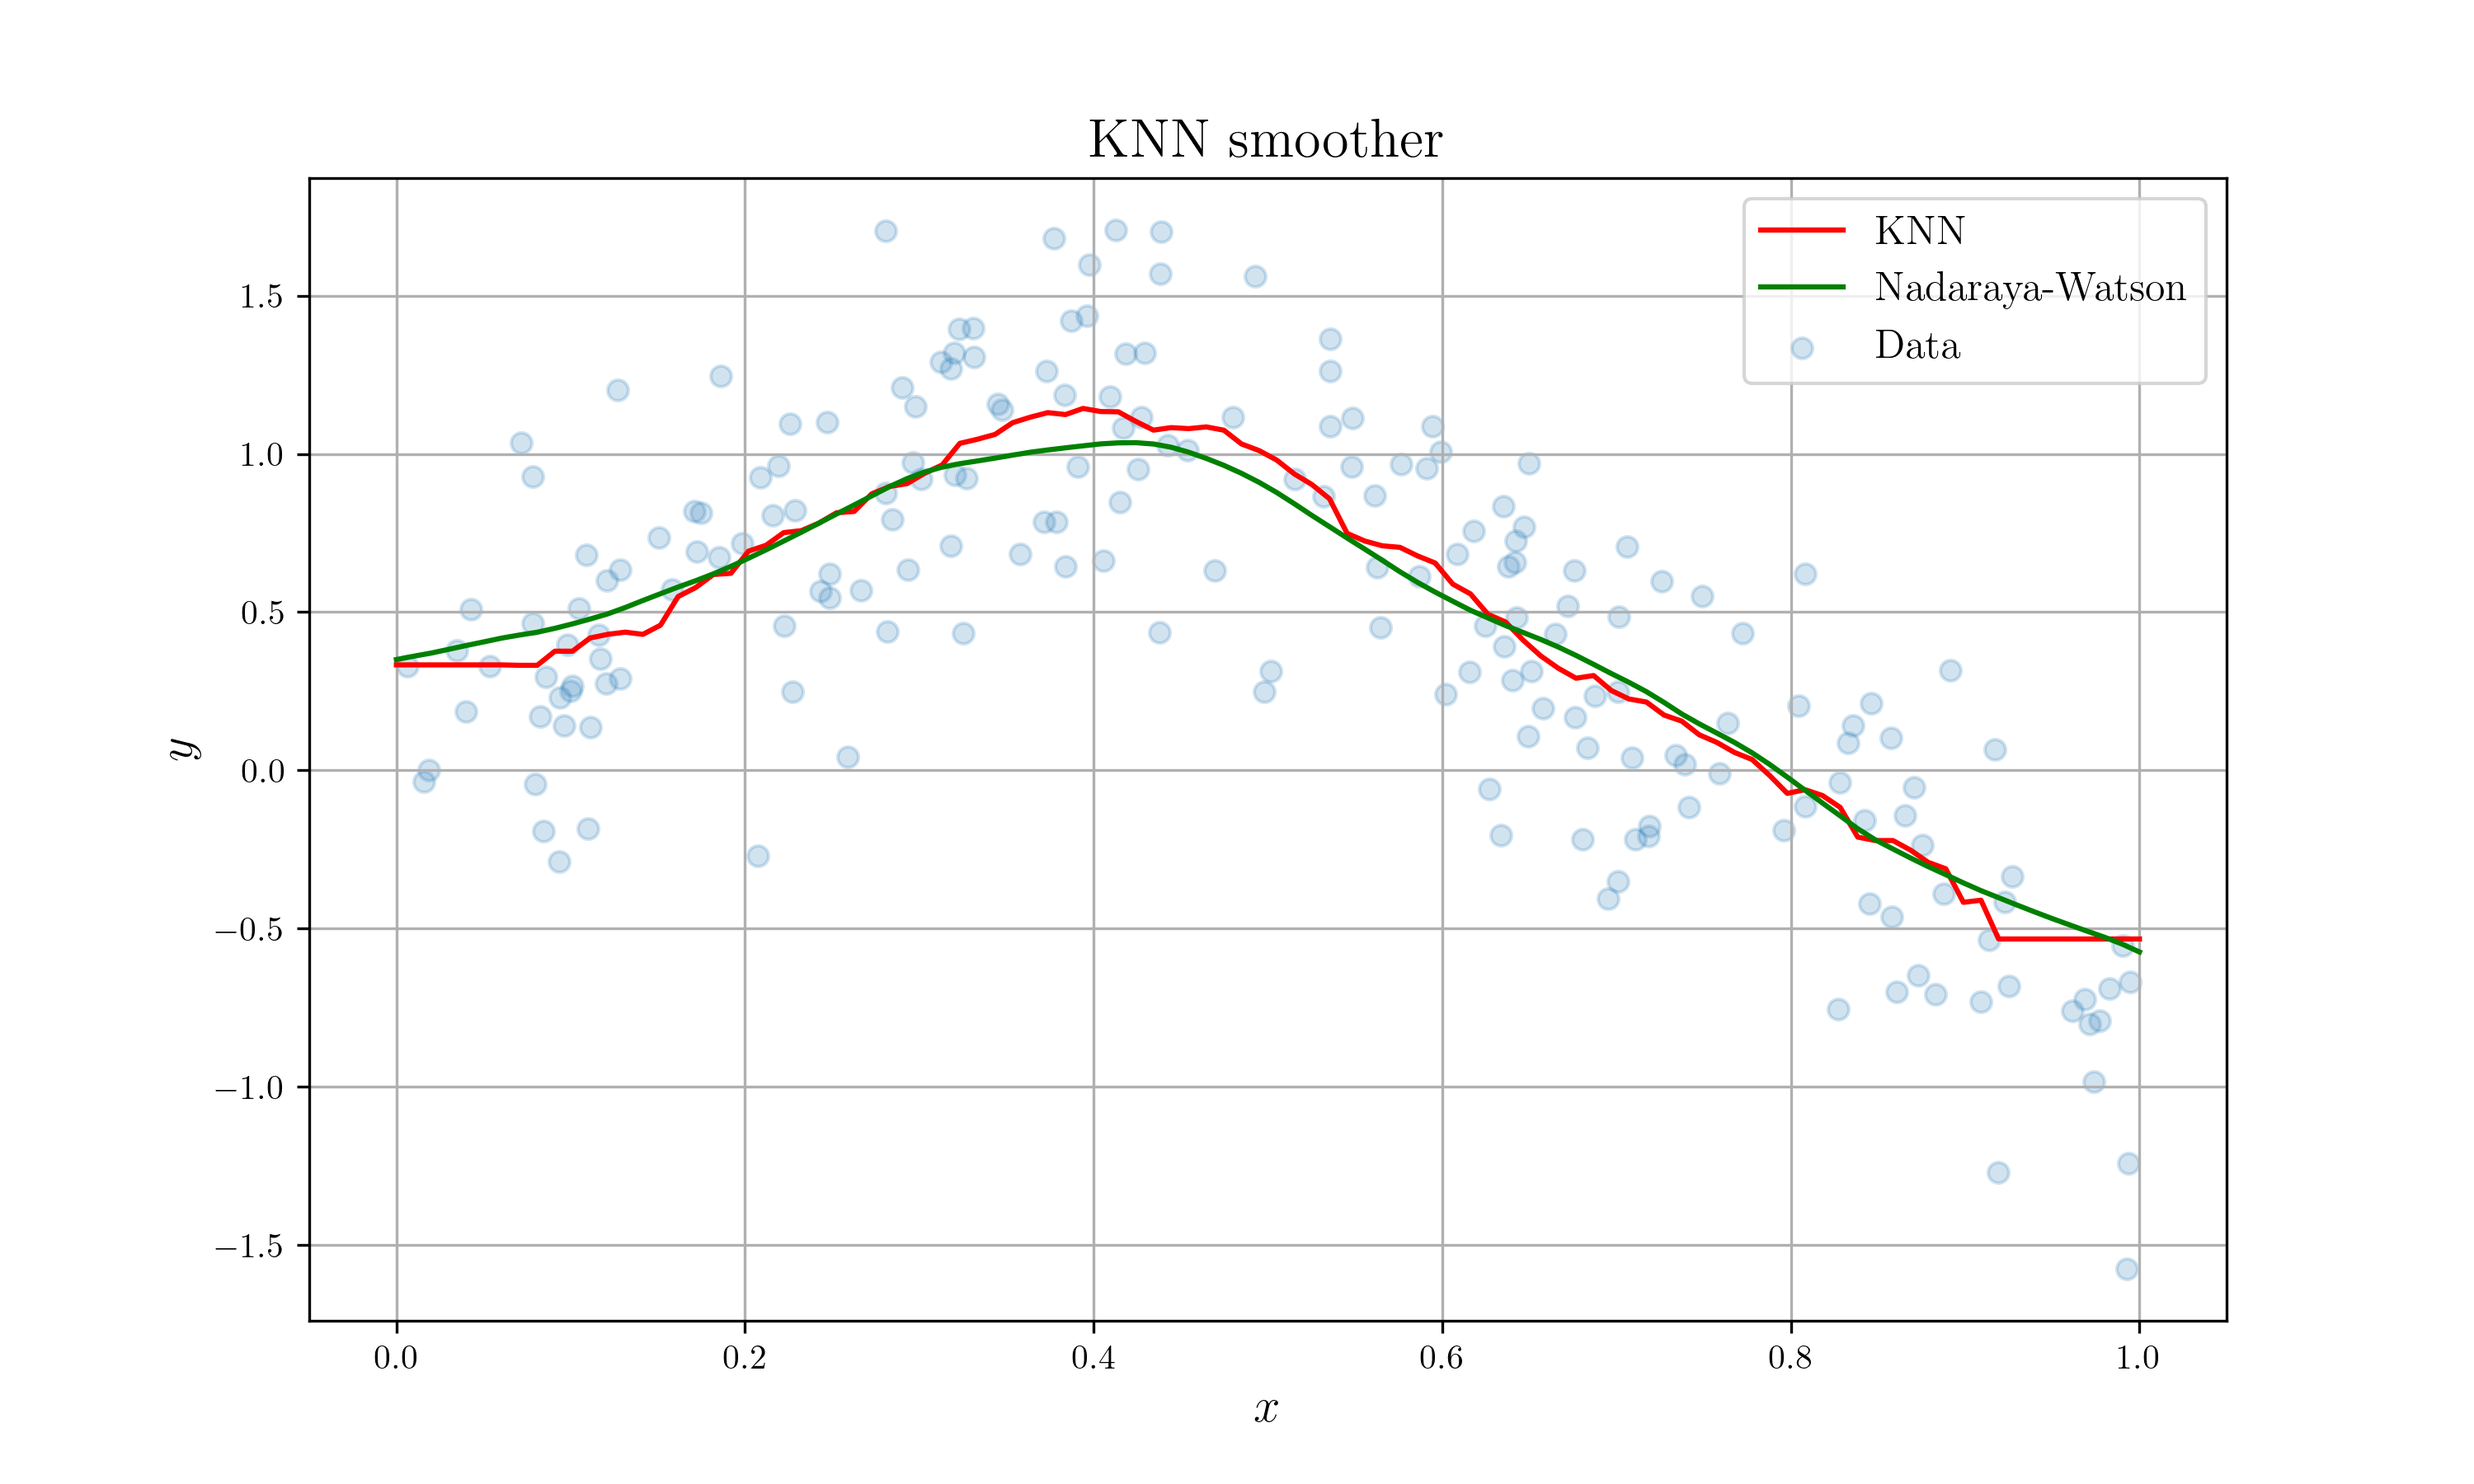
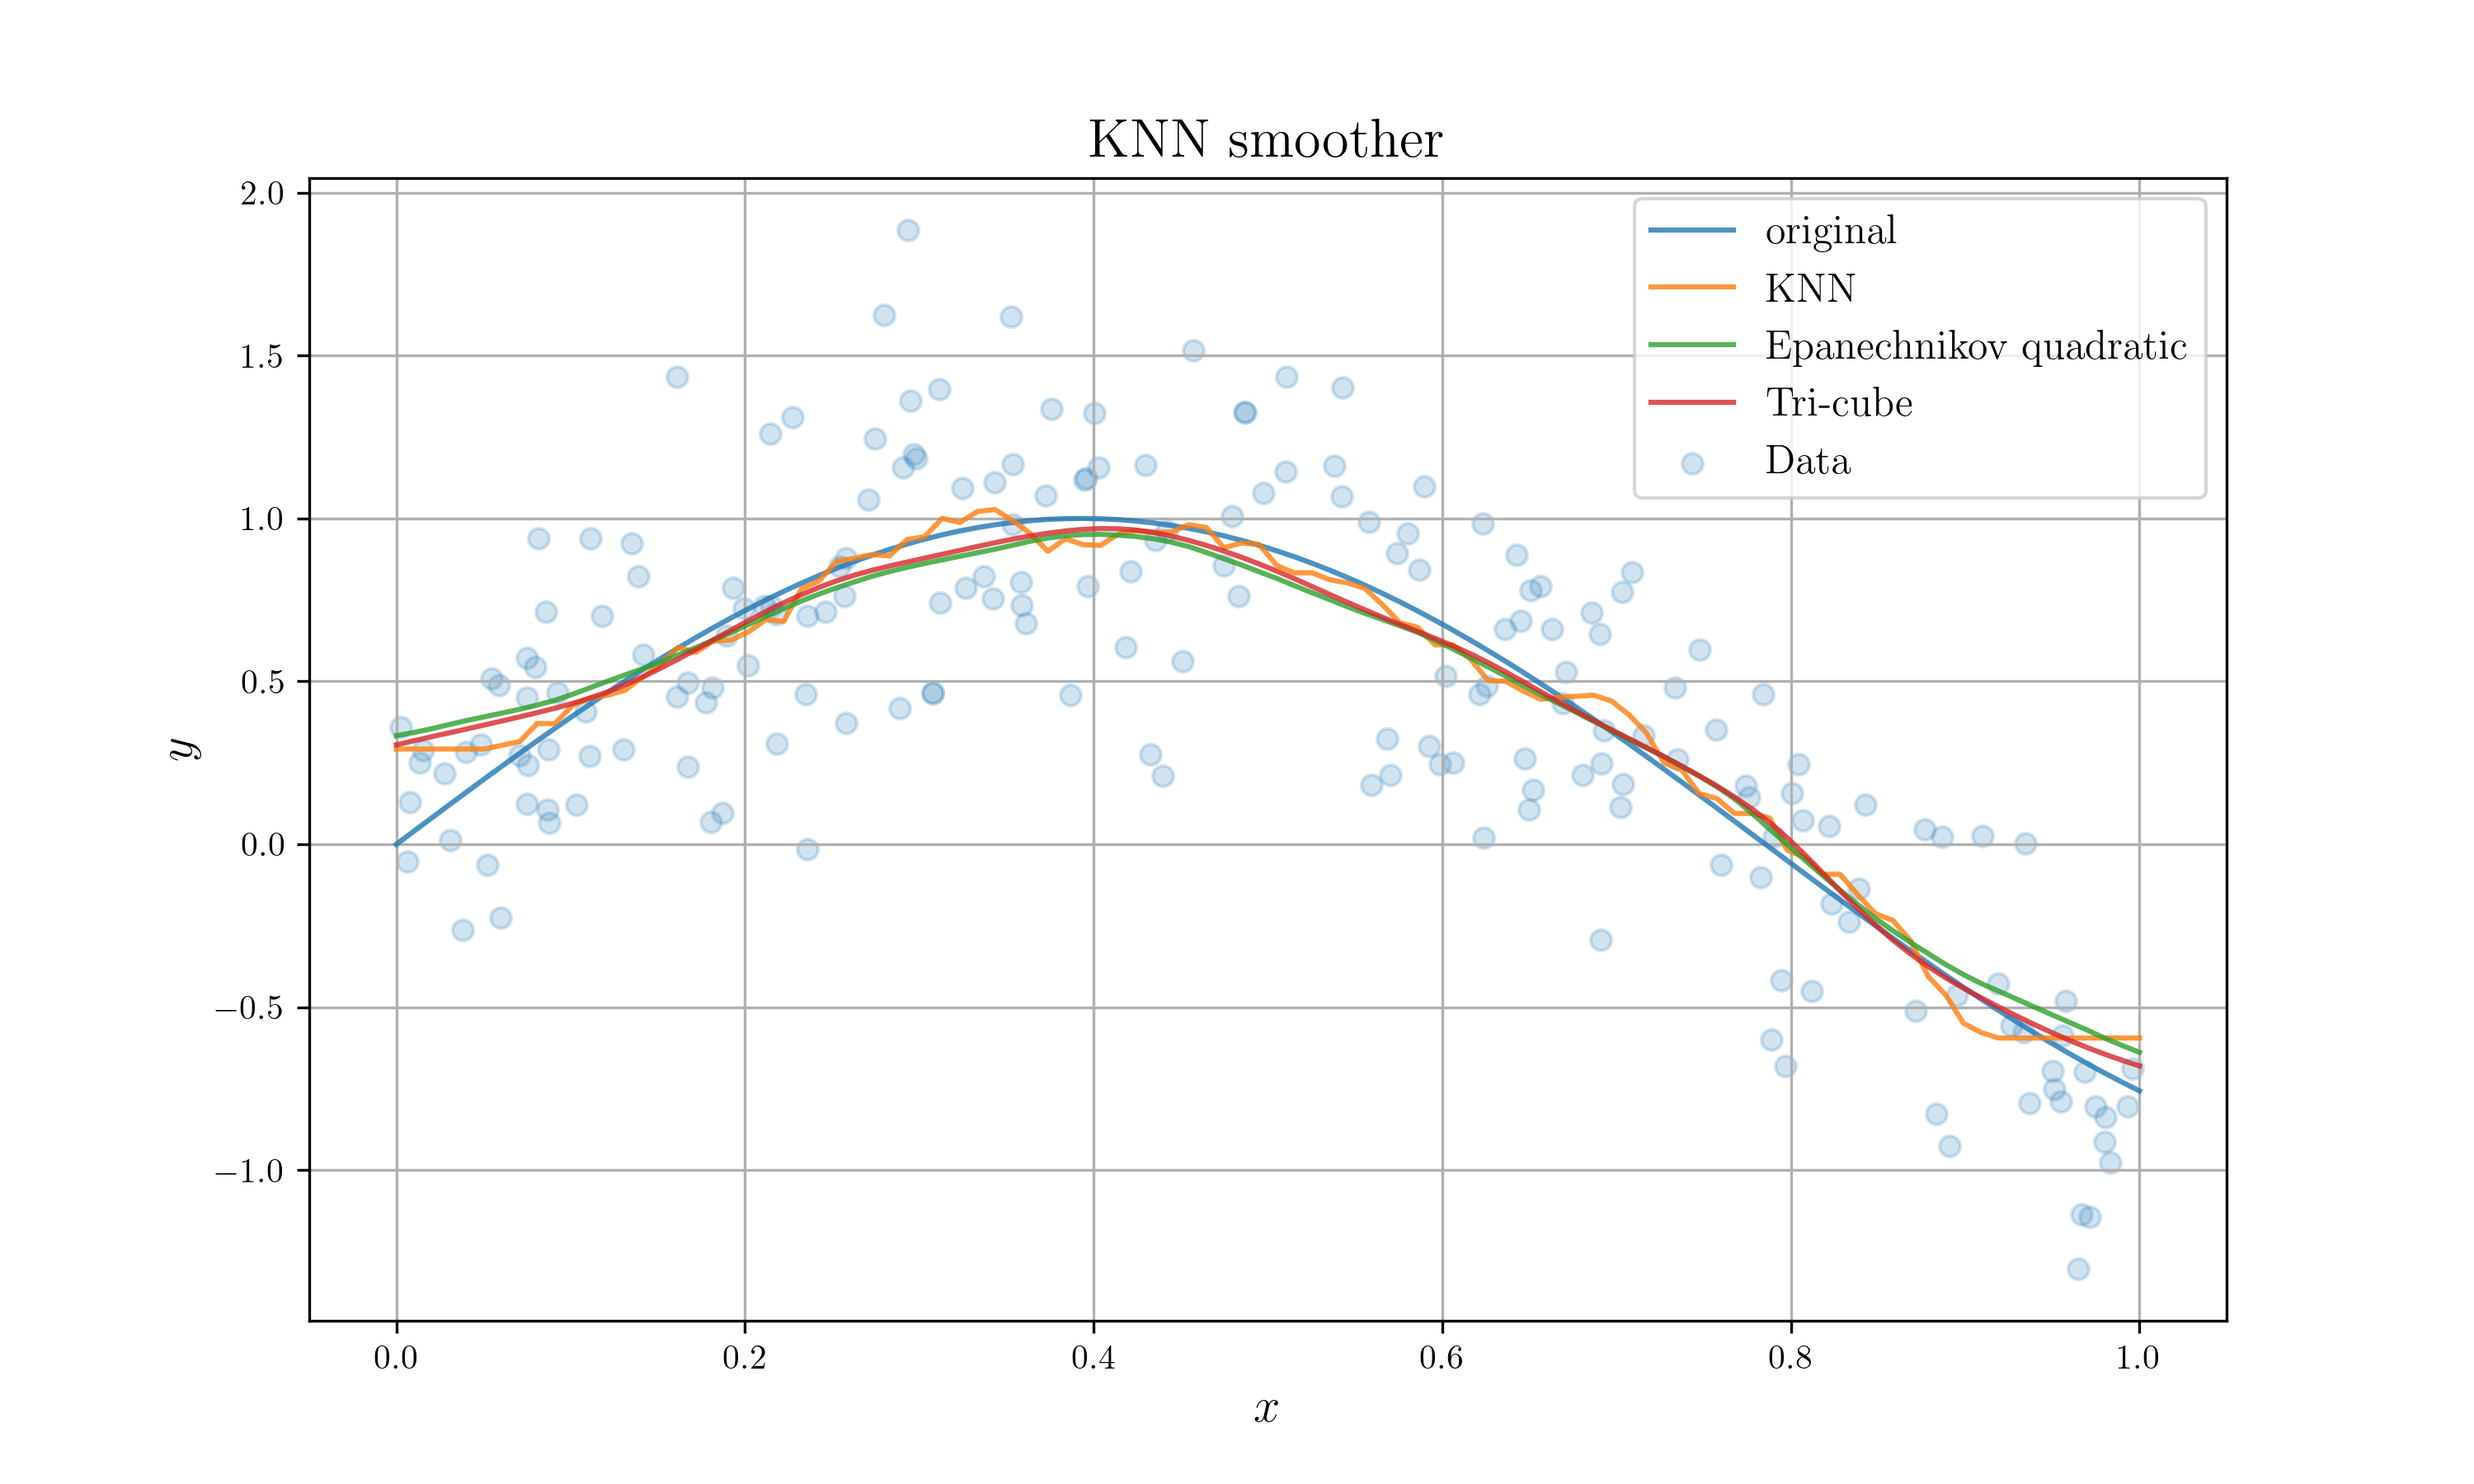
NW Smoother complete

diff --git a/chap6/tgkim/python/01_knn_smoother.py b/chap6/tgkim/python/01_knn_smoother.py
@@ -15,11 +15,13 @@ def main():
     f = gen_knn_average(data, k)
     f = np.vectorize(f)
 
-    g = gen_nadaraya_watson(data, k, 0.2)
+    g = gen_nadaraya_watson(data, epanechnikov_quadratic_kernel, 0.2)
+    h = gen_nadaraya_watson(data, tri_cube, 0.2)
 
     domain = np.linspace(0, 1, 100)
     knn_image = f(domain)
-    nw_image = np.array([g(x0) for x0 in domain])
+    eq_image = np.array([g(x0) for x0 in domain])
+    tc_image = np.array([h(x0) for x0 in domain])
 
     # ==========================================================================
     # Figure
@@ -35,8 +37,10 @@ def main():
     
     # Draw Plot ...
     plt.scatter(x, y, alpha=0.2, label="Data")
-    plt.plot(domain, knn_image, color = "r", label="KNN")
-    plt.plot(domain, nw_image, color="g", label="Nadaraya-Watson")
+    plt.plot(domain, np.sin(4*domain), alpha=0.8, label="original")
+    plt.plot(domain, knn_image, alpha=0.8, label="KNN")
+    plt.plot(domain, eq_image, alpha=0.8, label="Epanechnikov quadratic")
+    plt.plot(domain, tc_image, alpha=0.8, label="Tri-cube")
     
     # Plot with Legends
     plt.legend(fontsize=12)
@@ -59,16 +63,23 @@ def gen_knn_average(data, k):
     return knn_average
 
 def epanechnikov_quadratic_kernel(lam, x0, x):
-    d = np.fabs(x0 - x)
-    if d < lam:
-        return 0.75 * (1 - (d/lam)**2)
+    t = np.fabs(x0 - x) / lam
+    if t <= 1:
+        return 0.75 * (1 - t**2)
     else:
         return 0
 
-def gen_nadaraya_watson(data, k, lam):
+def tri_cube(lam, x0, x):
+    t = np.fabs(x0 - x) / lam
+    if t <= 1:
+        return (1-t**3)**3
+    else:
+        return 0
+
+def gen_nadaraya_watson(data, kernel, lam):
     def nadaraya_watson(x):
         def evaluation_kernel(x_i):
-            return epanechnikov_quadratic_kernel(lam, x, x_i)
+            return kernel(lam, x, x_i)
 
         denominator = np.sum([evaluation_kernel(x_i) for x_i in data[:,0]])
         numerator = np.sum([evaluation_kernel(x_i) * y_i for (x_i, y_i) in data])
